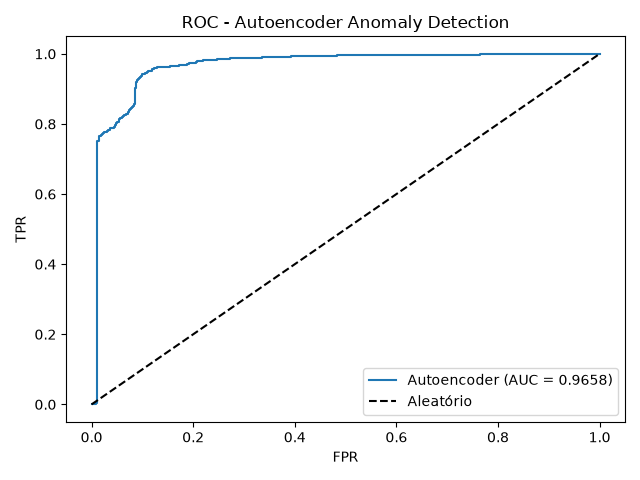
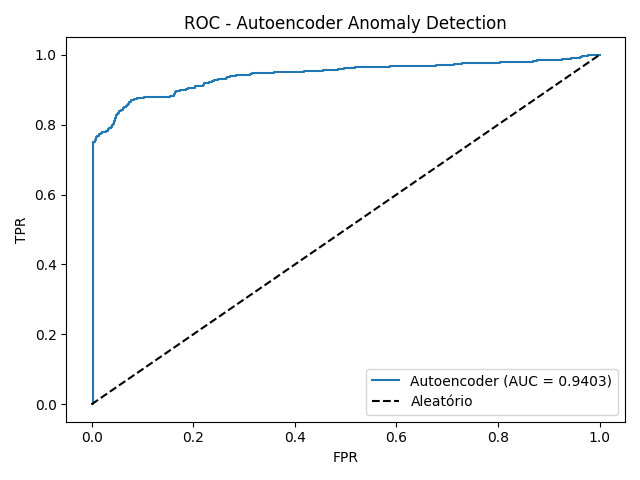
Maior espaço de busca para threshold

diff --git a/sessions/anomaly_detection/autoencoder3camadas.py b/sessions/anomaly_detection/autoencoder3camadas.py
@@ -10,6 +10,8 @@ from sklearn.model_selection import train_test_split
 from sklearn.metrics import roc_auc_score, roc_curve
 from utils import documentar
 from utilsDoProfessor import get_overall_metrics
+from sklearn.metrics import roc_curve
+
 
 
 def _preparar_dados():
@@ -135,7 +137,7 @@ def _treinar(model, X_train_t, X_val_benign_t, criterion, optimizer,
 def _scores_anomalia(model, X_t):
     with torch.no_grad():
         recon = model(X_t)
-        return torch.mean((X_t - recon) ** 2, dim=1).numpy()
+        return torch.mean((X_t - recon) ** 2, dim=1).numpy() # MSELoss
 
 
 def rodar():
@@ -159,18 +161,19 @@ def rodar():
 
     train_losses, val_losses = _treinar(
         model, X_train_t, X_val_benign_t, criterion, optimizer,
-        num_epochs=50, batch_size=256, patience=10, delta=1e-4,
+        num_epochs=50, batch_size=512, patience=5, delta=1e-4,
     )
 
     scores_val = _scores_anomalia(model, X_val_t)
-    thresholds = np.percentile(scores_val, np.arange(10, 95, 5))
+    _, _, thresholds = roc_curve(y_val, scores_val)
+
     best_f1, best_threshold = 0.0, thresholds[0]
 
     for t in thresholds:
         preds = (scores_val > t).astype(int)
-        if preds.sum() == 0 or preds.sum() == len(preds):
-            continue
+
         m = get_overall_metrics(y_val, preds)
+
         if m['f1-score'] > best_f1:
             best_f1 = m['f1-score']
             best_threshold = t

diff --git a/main.py b/main.py
@@ -1,26 +1,5 @@
-from sessions.clustering import rodar
-from sessions.clustering.visualization import gerar_graficos, gerar_graficos_pca, gerar_graficos_tsne
-from sessions.clustering.metrics import avaliar_clusters
-from sessions.clustering.feature_analysis import analisar_features
-from sessions.anomaly_detection.kmeans_anomaly import rodar as rodar_anomaly_kmeans
-from sessions.anomaly_detection.dbscan_anomaly import rodar as rodar_dbscan
 from sessions.anomaly_detection.autoencoder_anomaly import rodar as rodar_autoencoder
 
-clustering_results = rodar()
-
-gerar_graficos(clustering_results)
-gerar_graficos_pca(clustering_results)
-gerar_graficos_tsne(clustering_results)
-
-avaliar_clusters(None, clustering_results)
-
-analisar_features(
-    None,
-    clustering_results[0]["labels"]  # K=2
-)
-
-rodar_anomaly_kmeans()
-rodar_dbscan()
 rodar_autoencoder()
 
 

diff --git a/sessions/isolation_forest/isolation_forest.py b/sessions/isolation_forest/isolation_forest.py
@@ -56,7 +56,7 @@ def rodar():
             contamination=CONTAMINATION,
             random_state=RAND_STATE,
         ).fit(nomr_X_train)
-
+        isf_model.score_samples()
         predicoes_val = isf_model.predict(norm_X_val)
 
         predicoes_val[predicoes_val == 1] = 1
